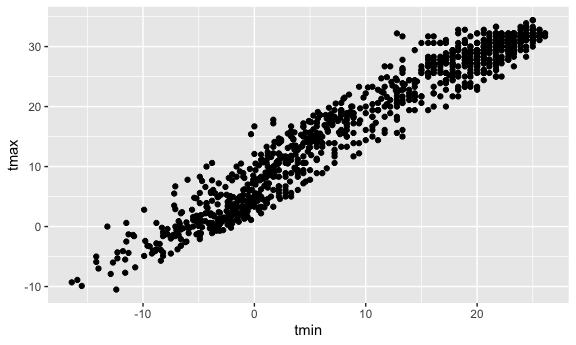
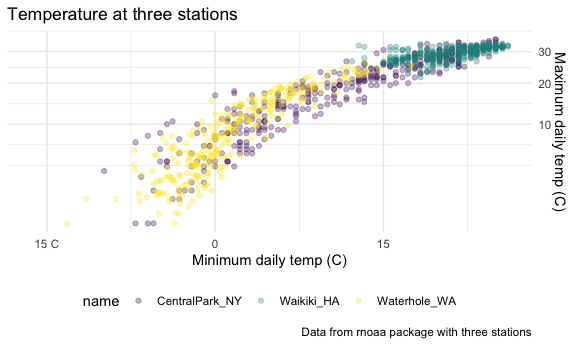
themes

diff --git a/viz_part2.md b/viz_part2.md
@@ -109,3 +109,35 @@ weather_df %>%
     ## Warning: Removed 90 rows containing missing values (geom_point).
 
 <img src="viz_part2_files/figure-gfm/unnamed-chunk-3-1.png" width="90%" />
+
+## Themes
+
+``` r
+weather_df %>% 
+  ggplot(aes(x = tmin, y = tmax, color = name)) +
+  geom_point(alpha = .3) +
+  labs(
+    title = "Temperature at three stations",
+    x = "Minimum daily temp (C)",
+    y = "Maximum daily temp (C)",
+    caption = "Data from rnoaa package with three stations"
+    ) +
+      scale_x_continuous(
+        breaks = c(-15, 0, 15),
+        labels = c("15 C", "0", "15")) +
+      scale_y_continuous(
+        trans = "sqrt",
+        position = "right"
+      ) +
+  scale_color_viridis_d() +
+  theme_minimal() +
+  theme(legend.position = "bottom")
+```
+
+    ## Warning in self$trans$transform(x): NaNs produced
+
+    ## Warning: Transformation introduced infinite values in continuous y-axis
+
+    ## Warning: Removed 90 rows containing missing values (geom_point).
+
+<img src="viz_part2_files/figure-gfm/unnamed-chunk-4-1.png" width="90%" />
